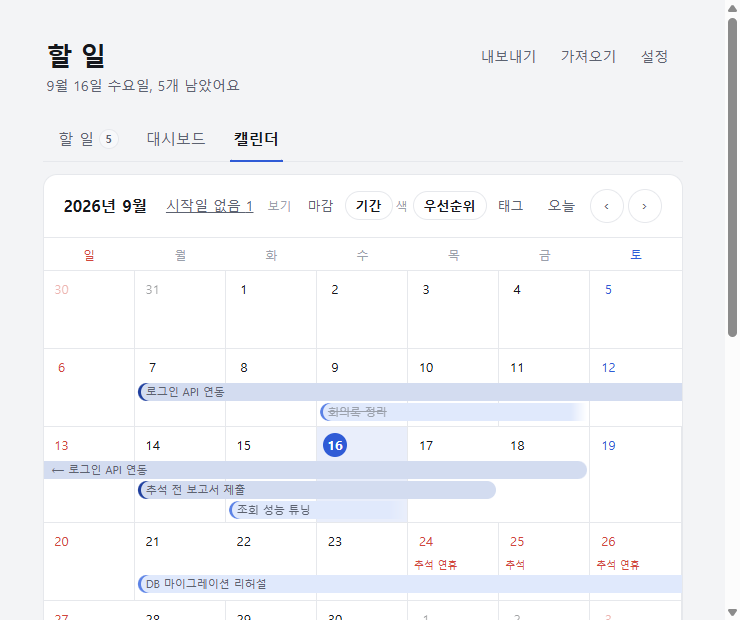
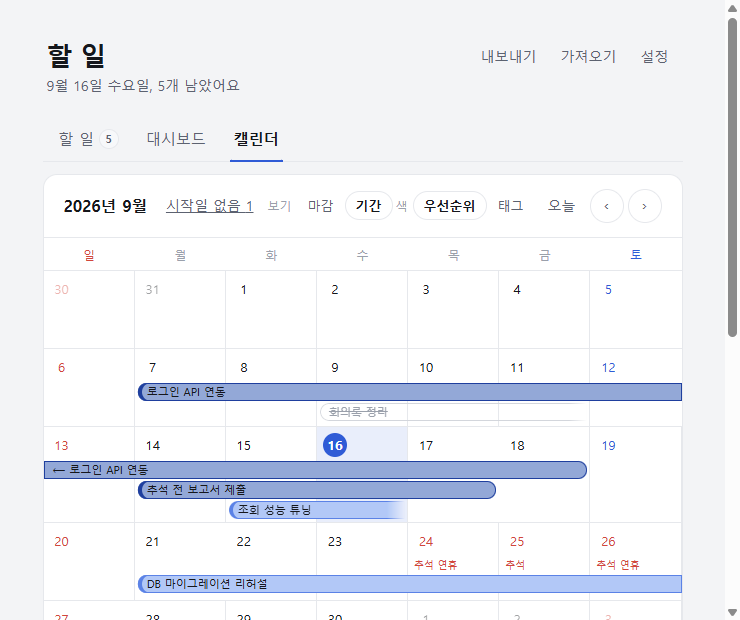
Make the period bars readable against the calendar
The bars were filled at 18% of their colour, which landed on the same value
as the sheet behind them and as the soft blue of the selected day. They now
fill at 45%, carry a 1px ring in the full colour, and put their title in ink
rather than muted grey; completed periods drop the fill and keep only an
outline, so finished and running work read apart at a glance.

Selection stays a background wash rather than the ring tried first: a cell's
inset box-shadow paints above the bars even though the bars sit at z-index 1,
which drew accent-coloured lines straight through them.

Changed region(s): [[0.0622, 0.7355, 0.8081, 0.8581], [0.1865, 0.6129, 0.9324, 0.7048], [0.1865, 0.9194, 0.9324, 0.9806]]

diff --git a/src/App.css b/src/App.css
@@ -1185,6 +1185,9 @@ button.todo-item-text:hover {
   background: var(--accent-soft);
 }
 
+/* 선택 표시는 "채움"이라야 한다 — 칸의 inset box-shadow 는 막대(z-index:1)보다 위에 그려져서
+   링으로 하면 막대를 가로지르는 세로줄이 생긴다. 배경은 막대 아래에 깔린다. */
+
 /* ===== 기간 막대 =====
    시작~종료가 여러 칸에 걸치므로 칸 안이 아니라 격자에 직접 놓는다(grid-column: 시작 / 끝+1).
    같은 줄의 칸들보다 DOM 뒤에 있어 위에 그려지고, 칸 경계선을 덮어 하나로 이어져 보인다.
@@ -1198,24 +1201,26 @@ button.todo-item-text:hover {
   margin-inline: 3px;
   min-width: 0;
   height: 18px;
-  padding: 0 8px;
+  padding: 0 9px;
   border: none;
   border-radius: 9px;
-  background: color-mix(in oklab, var(--bar) 18%, var(--tag-base, var(--sheet)));
-  box-shadow: inset 3px 0 0 var(--bar);
-  color: var(--ink-2);
+  /* 칸 배경·선택한 날 색과 확실히 갈리게 진하게 채우고 같은 색 테두리를 두른다.
+     글자는 잉크색 그대로라 어떤 색을 골라도 읽힌다 (태그 칩과 같은 규칙) */
+  background: color-mix(in oklab, var(--bar) 45%, var(--tag-base, var(--sheet)));
+  box-shadow: inset 0 0 0 1px var(--bar), inset 4px 0 0 var(--bar);
+  color: var(--ink);
   font-size: 11px;
+  font-weight: 500;
   line-height: 18px;
   text-align: left;
   white-space: nowrap;
   overflow: hidden;
   text-overflow: ellipsis;
-  transition: color 0.15s, background 0.15s;
+  transition: background 0.15s;
 }
 
 .cal-bar:hover {
-  color: var(--ink);
-  background: color-mix(in oklab, var(--bar) 30%, var(--tag-base, var(--sheet)));
+  background: color-mix(in oklab, var(--bar) 64%, var(--tag-base, var(--sheet)));
 }
 
 .cal-bar.priority-high {
@@ -1235,17 +1240,12 @@ button.todo-item-text:hover {
   --bar: var(--line-2);
 }
 
-.cal-bar.completed {
-  color: var(--ink-3);
-  text-decoration: line-through;
-}
-
 /* 주 경계를 넘어가는 쪽은 각지게 붙여서 다음 줄로 이어진다는 걸 보인다 */
 .cal-bar.open-left {
   margin-inline-start: 0;
   border-start-start-radius: 0;
   border-end-start-radius: 0;
-  box-shadow: none;
+  box-shadow: inset 0 0 0 1px var(--bar); /* 이어지는 쪽에는 굵은 시작선을 넣지 않는다 */
 }
 
 .cal-bar.open-right {
@@ -1254,12 +1254,22 @@ button.todo-item-text:hover {
   border-end-end-radius: 0;
 }
 
+/* 끝난 일 — 채우지 않고 테두리만. 진행 중인 막대와 한눈에 갈린다 */
+.cal-bar.completed,
+.cal-bar.completed:hover {
+  background: transparent;
+  box-shadow: inset 0 0 0 1px var(--line-2);
+  color: var(--ink-3);
+  font-weight: 400;
+  text-decoration: line-through;
+}
+
 /* 종료일을 안 적은 것 = 진행 중 — 끝을 흐리게 풀어 둔다 */
 .cal-bar.ongoing:not(.open-right) {
   border-start-end-radius: 0;
   border-end-end-radius: 0;
-  -webkit-mask-image: linear-gradient(to right, #000 calc(100% - 16px), transparent);
-  mask-image: linear-gradient(to right, #000 calc(100% - 16px), transparent);
+  -webkit-mask-image: linear-gradient(to right, #000 calc(100% - 18px), transparent);
+  mask-image: linear-gradient(to right, #000 calc(100% - 18px), transparent);
 }
 
 .cal-cell.out .cal-date,
